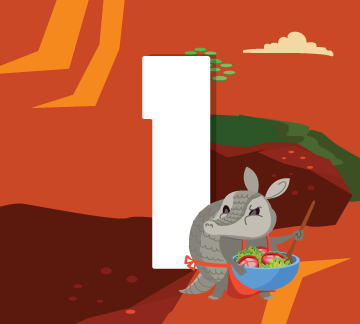
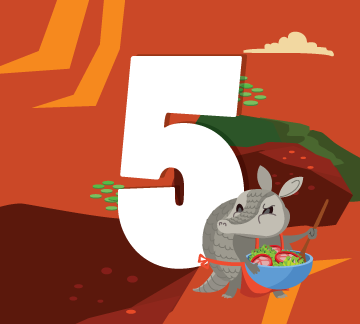
Correcciones imagenes Jackie. Closes #356

Changed region(s): [[0.2444, 0.1235, 0.9167, 0.9259], [0.8861, 0.4012, 0.9167, 0.4321], [0.825, 0.0926, 0.8556, 0.1235]]

diff --git a/mirage/fixtures/desafios.js b/mirage/fixtures/desafios.js
@@ -1394,7 +1394,6 @@ export default [
     grupoId: 'manual2cPrimaria4.1.3',
     nombre: '4.1.3a',
     titulo: 'Desafío 1',
-    imagen: 'Duba',
     escena: `new EscenaDuba("\
         [-,O,O,O,-,-,-,-],\
         [-,O,O,O,O,-,-,-],\
@@ -1422,7 +1421,6 @@ export default [
     grupoId: 'manual2cPrimaria4.1.3',
     nombre: '4.1.3b',
     titulo: 'Desafío 2',
-    imagen: 'Duba',
     escena: `new EscenaDuba("\
         [O,O,-,O,O,-,-,-],\
         [O,P,-,O,O,-,-,-],\
@@ -1450,7 +1448,6 @@ export default [
     grupoId: 'manual2cPrimaria4.1.3',
     nombre: '4.1.3c',
     titulo: 'Desafío 3',
-    imagen: 'Duba',
     escena: `new EscenaDuba("\
       [-,-,-,O,O,-,-,O],\
       [O,O,-,O,-,-,-,O],\
@@ -1478,7 +1475,6 @@ export default [
     grupoId: 'manual2cPrimaria4.1.4',
     nombre: '4.1.4a',
     titulo: 'Desafío 1',
-    imagen: 'Coty',
     escena: `new EscenaCoty(
       [],
       [[{x:-130,y:20},{x:-90,y:20}], [{x:-50,y:20},{x:-10,y:20}], [{x:30,y:20},{x:70,y:20}], [{x:110,y:20},{x:150,y:20}]],
@@ -1504,7 +1500,6 @@ export default [
     grupoId: 'manual2cPrimaria4.1.4',
     nombre: '4.1.4b',
     titulo: 'Desafío 2',
-    imagen: 'Coty',
     escena: `new EscenaCoty(
       [],
       [[{x:-130,y:20},{x:-90,y:20}], [{x:-50,y:20},{x:-10,y:20}], [{x:30,y:20},{x:70,y:20}], [{x:110,y:20},{x:150,y:20},{x:150,y:-20}]],
@@ -1530,7 +1525,6 @@ export default [
     grupoId: 'manual2cPrimaria4.1.4',
     nombre: '4.1.4c',
     titulo: 'Desafío 3',
-    imagen: 'Coty',
     escena: `new EscenaCoty(
       [],
       [[{x:-120,y:-60},{x:-120,y:-20},{x:-80,y:-20},{x:-40,y:-20},{x:-40,y:20},{x:0,y:20},{x:40,y:20},{x:40,y:60},{x:80,y:60},{x:120,y:60}]],
@@ -1556,7 +1550,6 @@ export default [
     grupoId: 'manual2cPrimaria4.2.3',
     nombre: '4.2.3a',
     titulo: 'Desafío 1',
-    imagen: 'Duba',
     escena: `new EscenaDuba("\
       [-,-,-,-,O,O,O,O],\
       [-,-,-,-,-,-,-,O],\
@@ -1610,7 +1603,6 @@ export default [
     grupoId: 'manual2cPrimaria4.2.3',
     nombre: '4.2.3b',
     titulo: 'Desafío 2',
-    imagen: 'Duba',
     escena: `new EscenaDuba("\
       [O,-,-,-,O,O,O,O],\
       [-,A,-,-,-,-,O,-],\
@@ -1664,7 +1656,6 @@ export default [
     grupoId: 'manual2cPrimaria4.2.3',
     nombre: '4.2.3c',
     titulo: 'Desafío 3',
-    imagen: 'Coty',
     escena: `new EscenaCoty(
       [],
       [[{x:-100,y:-100},{x:-100,y:-50},{x:-50,y:-50},{x:-50,y:0},{x:0,y:0},{x:0,y:50},{x:50,y:50},{x:50,y:100},{x:100,y:100}]],
@@ -1719,7 +1710,6 @@ export default [
     grupoId: 'manual2cPrimaria4.2.3',
     nombre: '4.2.3d',
     titulo: 'Desafío 4',
-    imagen: 'Coty',
     escena: `new EscenaCoty(
       [],
       [[{x:-120,y:-60},{x:-120,y:-20},{x:-80,y:-20},{x:-80,y:20},{x:-40,y:20},{x:-40,y:60},{x:0,y:60},{x:40,y:60},{x:40,y:20},{x:80,y:20},{x:80,y:-20},{x:120,y:-20},{x:120,y:-60}]],
@@ -1790,7 +1780,6 @@ export default [
     grupoId: 'manual2cPrimaria4.I',
     nombre: '4.I1a',
     titulo: 'Desafío 1',
-    imagen: 'Lita',
     escena: `new EscenaLita("\
       [O,-,-,-,O,-,A],\
       [-,-,-,O,O,-,O],\
@@ -1819,7 +1808,6 @@ export default [
     grupoId: 'manual2cPrimaria4.I',
     nombre: '4.I1b',
     titulo: 'Desafío 2',
-    imagen: 'Lita',
     escena: `new EscenaLita("\
       [L,-,-,-,-,T,E],\
       [-,O,-,-,O,-,O],\
@@ -1895,7 +1883,6 @@ export default [
     grupoId: 'manual2cPrimaria5.1.3',
     nombre: '5.1.3a',
     titulo: 'Desafío 1',
-    imagen: 'Duba',
     escena: `new EscenaDuba("[A,P?(0.6)]", {}, [0,1])`,
     enunciado: '[Completar]',
     debeFelicitarse: true, 
@@ -1915,7 +1902,6 @@ export default [
     grupoId: 'manual2cPrimaria5.1.3',
     nombre: '5.1.3b',
     titulo: 'Desafío 2',
-    imagen: 'Duba',
     escena: `new EscenaDuba(["[A,-,-]","[A,P,-]","[A,-,P]","[A,P,P]"], {}, [0,2])`,
     enunciado: '[Completar]',
     debeFelicitarse: true, 
@@ -1935,7 +1921,6 @@ export default [
     grupoId: 'manual2cPrimaria5.1.3',
     nombre: '5.1.3c',
     titulo: 'Desafío 3',
-    imagen: 'Coty',
     escena: `new EscenaCoty(
       [],
       [{x:-120,y:50},{x:20,y:50},{x:20,y:-90},{x:-120,y:-90},{x:-120,y:50}],
@@ -1962,7 +1947,6 @@ export default [
     grupoId: 'manual2cPrimaria5.1.4',
     nombre: '5.1.4a',
     titulo: 'Desafío 1',
-    imagen: 'Lita',
     escena: `new EscenaLita("[A,-,L|T]")`,
     enunciado: '[Completar]',
     debeFelicitarse: true, 
@@ -1986,7 +1970,6 @@ export default [
     grupoId: 'manual2cPrimaria5.1.4',
     nombre: '5.1.4b',
     titulo: 'Desafío 2',
-    imagen: 'Duba',
     escena: `new EscenaDuba(["\
       [O,O,O,O,O],\
       [O,A,-,P,O],\
@@ -2022,7 +2005,6 @@ export default [
     grupoId: 'manual2cPrimaria5.1.4',
     nombre: '5.1.4c',
     titulo: 'Desafío 3',
-    imagen: 'Duba',
     escena: `new EscenaDuba("\
       [O,O,O,O,O],\
       [-,-,*,-,-],\
@@ -2051,7 +2033,6 @@ export default [
     grupoId: 'manual2cPrimaria5.2.1',
     nombre: '5.2.1a',
     titulo: 'Desafío 1',
-    imagen: 'Duba',
     escena: `new EscenaDuba("[A,-,-,-,-,-,-,P?]", {}, [0,7])`,
     enunciado: '[Completar]',
     debeFelicitarse: true, 
@@ -2073,7 +2054,6 @@ export default [
     grupoId: 'manual2cPrimaria5.2.1',
     nombre: '5.2.1b',
     titulo: 'Desafío 2',
-    imagen: 'Duba',
     escena: `new EscenaDuba("[A,#P,#P,#P,#P,#P,#P,#P]", { macros: { "P": "*>P?" }, coleccion: ["P"] }, [0,7])`,
     enunciado: '[Completar]',
     debeFelicitarse: true, 
@@ -2095,7 +2075,6 @@ export default [
     grupoId: 'manual2cPrimaria5.2.1',
     nombre: '5.2.1c',
     titulo: 'Desafío 3',
-    imagen: 'Lita',
     escena: `new EscenaLita("[A],[*],[*],[*],[*],[*],[*],[E]", { coleccion: ["T", "L"] })`,
     enunciado: '[Completar]',
     debeFelicitarse: true, 
@@ -2120,7 +2099,6 @@ export default [
     grupoId: 'manual2cPrimaria5.I',
     nombre: '5.I1a',
     titulo: 'Desafío 1',
-    imagen: 'Toto',
     escena: `new EscenaTotoEscritor(new ObjetivoCopiar())`,
     enunciado: '[Completar]',
     debeFelicitarse: true, 
@@ -2142,7 +2120,6 @@ export default [
     grupoId: 'manual2cPrimaria5.I',
     nombre: '5.I1b',
     titulo: 'Desafío 2',
-    imagen: 'Toto',
     escena: `new EscenaTotoEscritor(new ObjetivoX())`,
     enunciado: '[Completar]',
     debeFelicitarse: true, 
@@ -2165,7 +2142,6 @@ export default [
     grupoId: 'manual2cPrimaria5.I',
     nombre: '5.I1c',
     titulo: 'Desafío 3',
-    imagen: 'Toto',
     escena: `new EscenaTotoEscritor(new ObjetivoMicha())`,
     enunciado: '[Completar]',
     debeFelicitarse: true, 
@@ -2189,7 +2165,6 @@ export default [
     grupoId: 'manual2cPrimaria5.I',
     nombre: '5.I1d',
     titulo: 'Desafío 4',
-    imagen: 'Toto',
     escena: `new EscenaTotoEscritor(new ObjetivoJeringozo())`,
     enunciado: '[Completar]',
     debeFelicitarse: true, 
